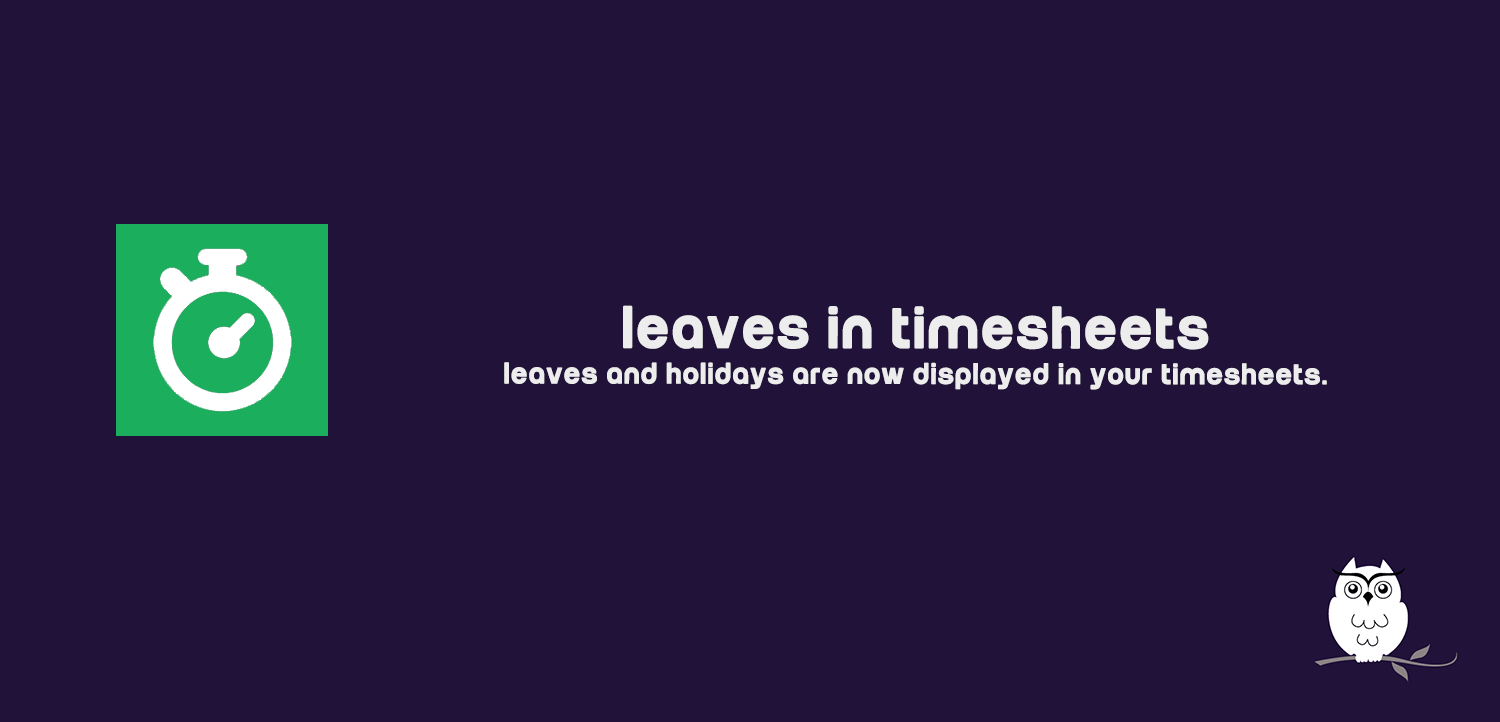
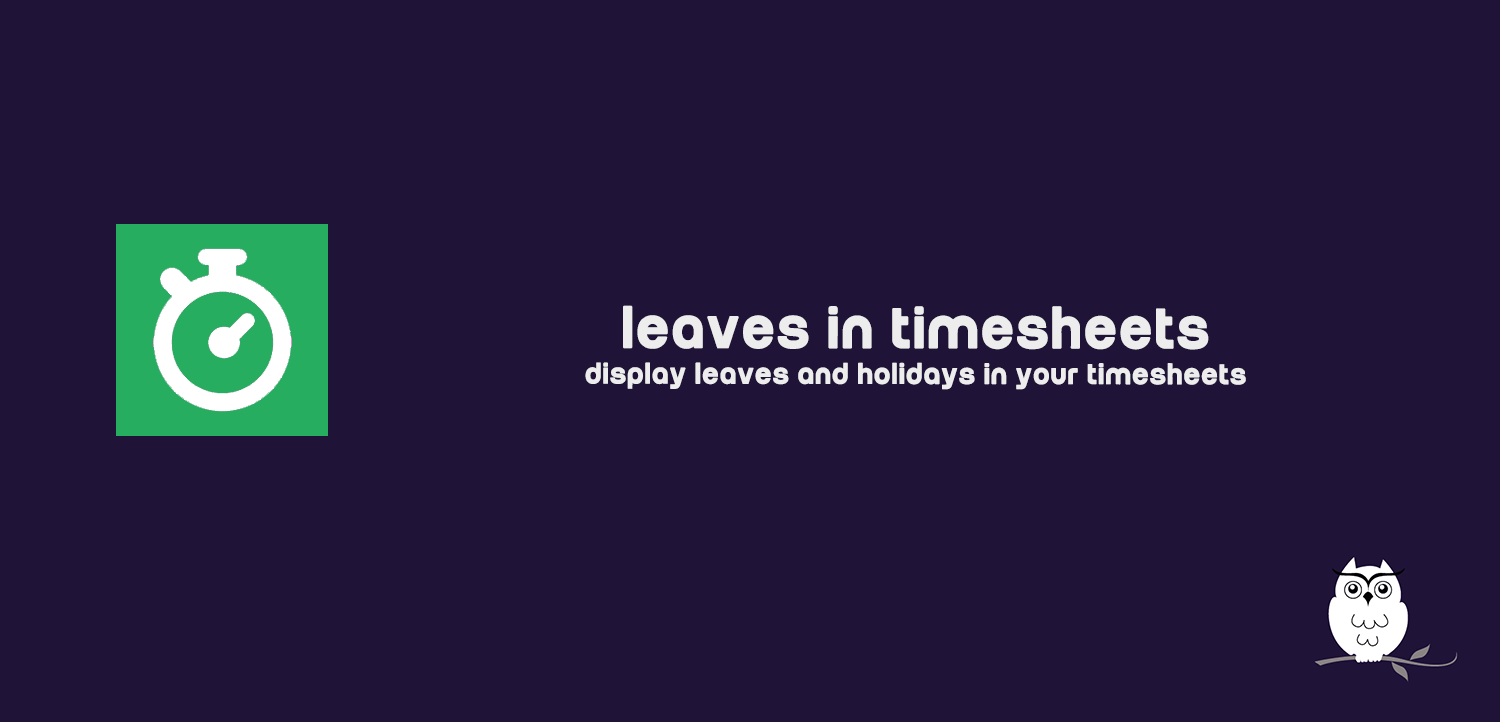
NIB-83: Check grammar and spelling

Changed region(s): [[0.3373, 0.4875, 0.8893, 0.5485]]

diff --git a/hr_holiday_timesheet/static/description/index.html b/hr_holiday_timesheet/static/description/index.html
@@ -9,7 +9,7 @@
     <div id="desc" class="tab-pane active">
         <section class="oe_container">
             <div class="oe_row oe_spaced">
-                <h2 class="oe_slogan">Timesheet - Automatic leaves in timesheets</h2>
+                <h2 class="oe_slogan">Display leaves automatically in your timesheets</h2>
                 <div class="oe_span6" style="display: block; margin: 0 auto; height:400px;">
                     <div style="display: inline-block; position: relative; z-index: 1;">
                         <img src="screen_niboo.png" style="margin: 0 auto; display: block; width: 425px;">
@@ -18,7 +18,7 @@
                 </div>
                 <div class="oe_span6">
                     <div style="font-size: 15px;">
-                        <p>This module will display the employee's holidays on their timesheet once they are approved</p>
+                        <p>This module will display the employee's holidays in their timesheet once they are approved.</p>
                     </div>
                 </div>
             </div>
@@ -48,21 +48,22 @@
         <h2 class="oe_slogan">User Guide</h2>
         <section class="oe_container">
             <div class="oe_row oe_spaced">
-                <h3 class="oe_slogan">How to configure</h3>
+                <h3 class="oe_slogan">Configuration</h3>
                 <div class="oe_span6">
                     <img class="img img-responsive" src="configure_company.png"/>
                 </div>
                 <ol class="oe_span6" style="font-size: 15px;">
-                    <li>First, you have to define the number of hours your employee should do per day. This is configured on the company form. The default value is 8 hours per day</li>
+                    <li>Define the number of hours your employee should work per day: <b>Settings > Company > Configuration</b> (default is 8 hours)</li>
+                    <li>This number will then be used to log a day of leave in the timesheet</li>
                 </ol>
             </div>
         </section>
         <section class="oe_container oe_dark">
             <div class="oe_row oe_spaced">
-                <h3 class="oe_slogan">How to use?</h3>
-                <ul class="oe_span6" style="font-size: 15px;">
-                    <li>Once your company is configured, everything is set. The users can now make leave request.</li>
-                </ul>
+                <h3 class="oe_slogan">How to use</h3>
+                <div class="oe_span6" style="font-size: 15px;">
+                    <p>Once your company is configured, everything is set. The users can now make leave request.</p>
+                </div>
                 <div class="oe_span6">
                     <img class="img img-responsive" src="request.png"/>
                 </div>
@@ -71,14 +72,13 @@
 
         <section class="oe_container">
             <div class="oe_row oe_spaced">
-                <h3 class="oe_slogan">Result</h3>
                 <div class="oe_span6">
                     <img class="img img-responsive" src="result.png"/>
                 </div>
-                <ol class="oe_span6" style="font-size: 15px;">
-                    <li>Once they are approved, the leave will now appear in your employee's timesheet. If they took a full day of holiday, a line with the company "number of hours" will appear in the timesheet.</li>
-                    <li>Of course, if they took half a day, only half of that amount will appear.</li>
-                </ol>
+                <div class="oe_span6" style="font-size: 15px;">
+                    <p>As soon as the leave is approved, it will appear in your employee's timesheet in the line <b>Leaves</b>. If they took a full day off,
+                        it will be logged with the number of hours configured in the company settings. If they took half a day off, it will be logged with half of the amount.</p>
+                </div>
             </div>
         </section>
     </div>

diff --git a/hr_holiday_timesheet/__openerp__.py b/hr_holiday_timesheet/__openerp__.py
@@ -24,15 +24,9 @@
         'views/view_holiday_request.xml',
         'views/res_company_view.xml',
     ],
-    'qweb': [
-    ],
-    'demo': [
-    ],
-    'css': [
-    ],
     'images': [
       'static/description/hr_holiday_timesheet_cover.png',
     ],
     'installable': True,
-    'application': True,
+    'application': False,
 }
